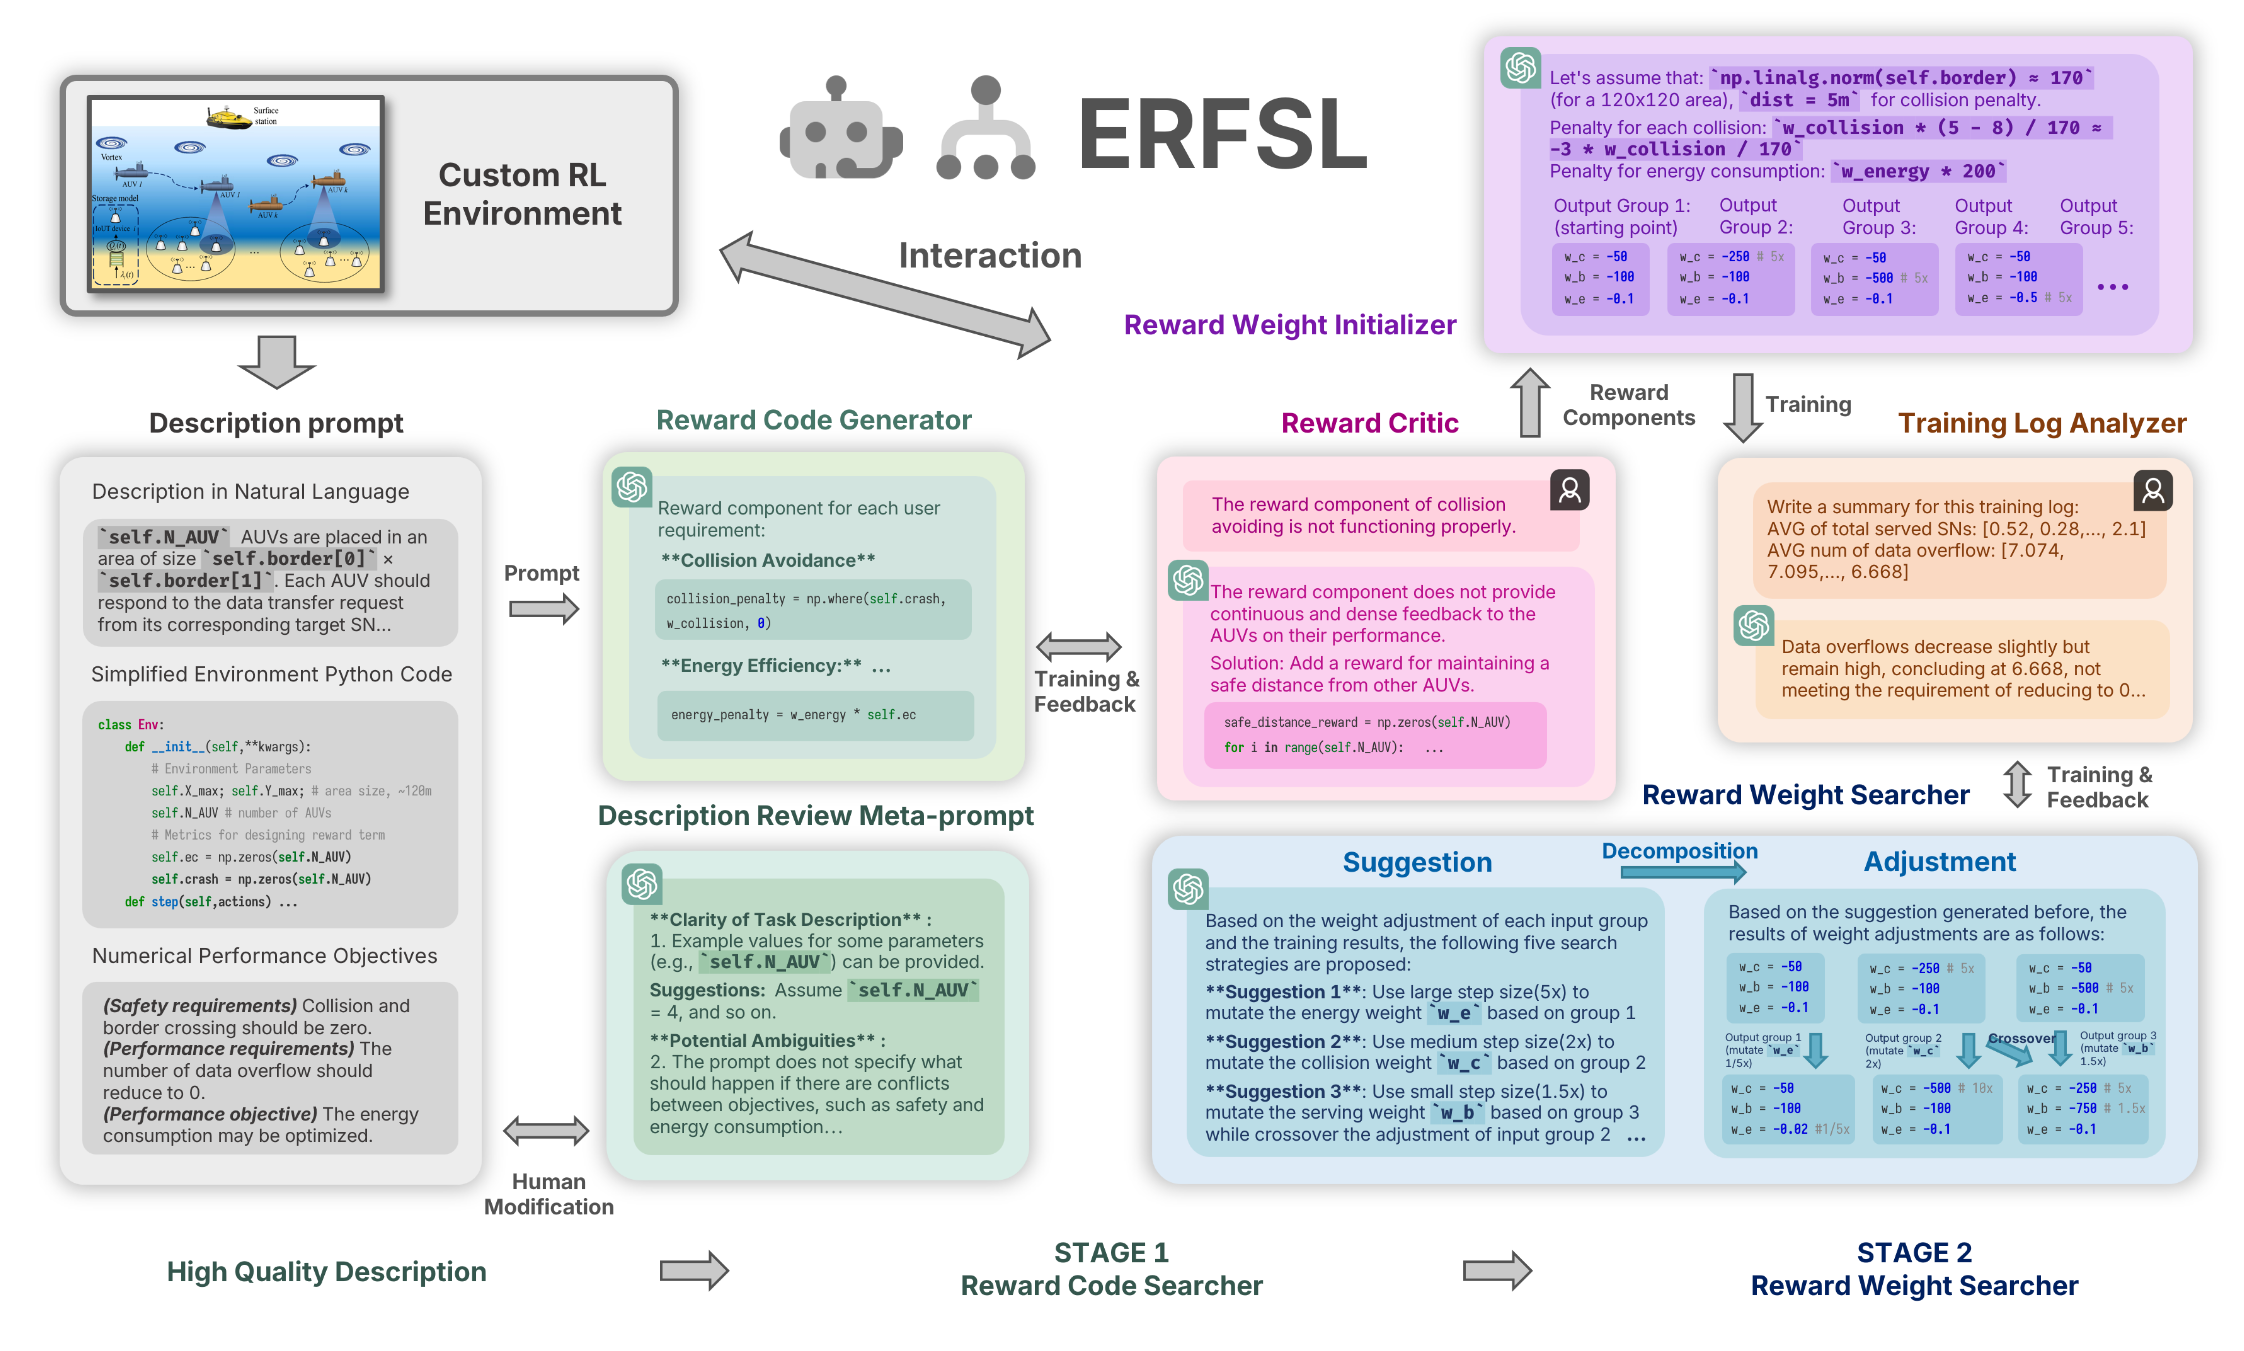
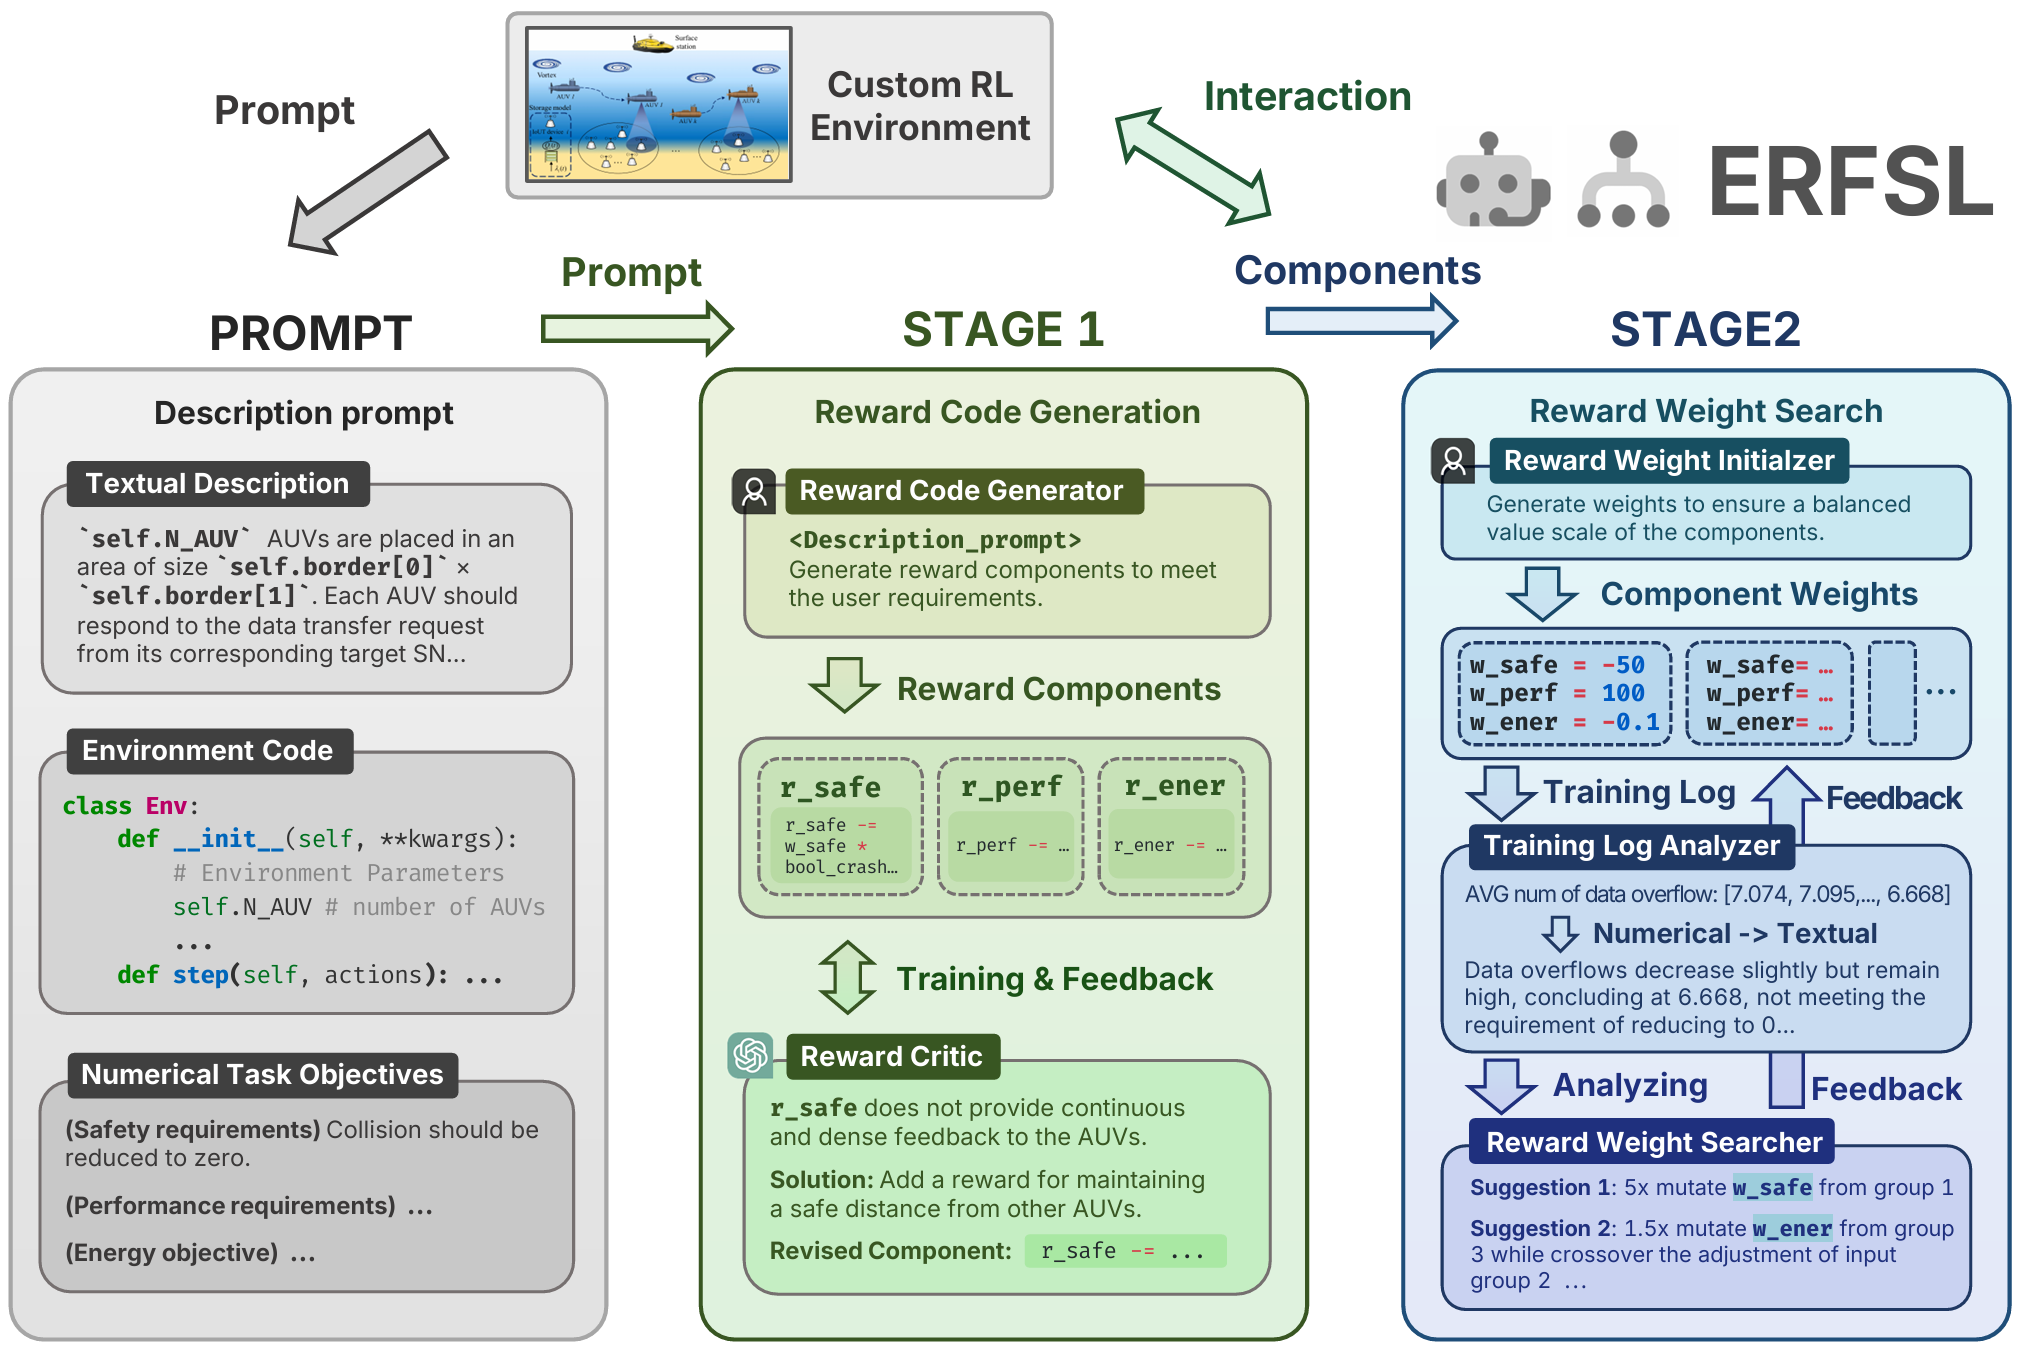
Update architecture figure (20241208)

diff --git a/index.html b/index.html
@@ -77,7 +77,7 @@
             <div class="publication-links">
               <!-- PDF Link. -->
               <span class="link-block">
-                <a href="https://arxiv.org/abs/2409.02428"
+                <a href="https://arxiv.org/abs/2409.02428v2"
                    class="external-link button is-normal is-rounded is-dark">
                   <span class="icon">
                       <i class="ai ai-arxiv"></i>
